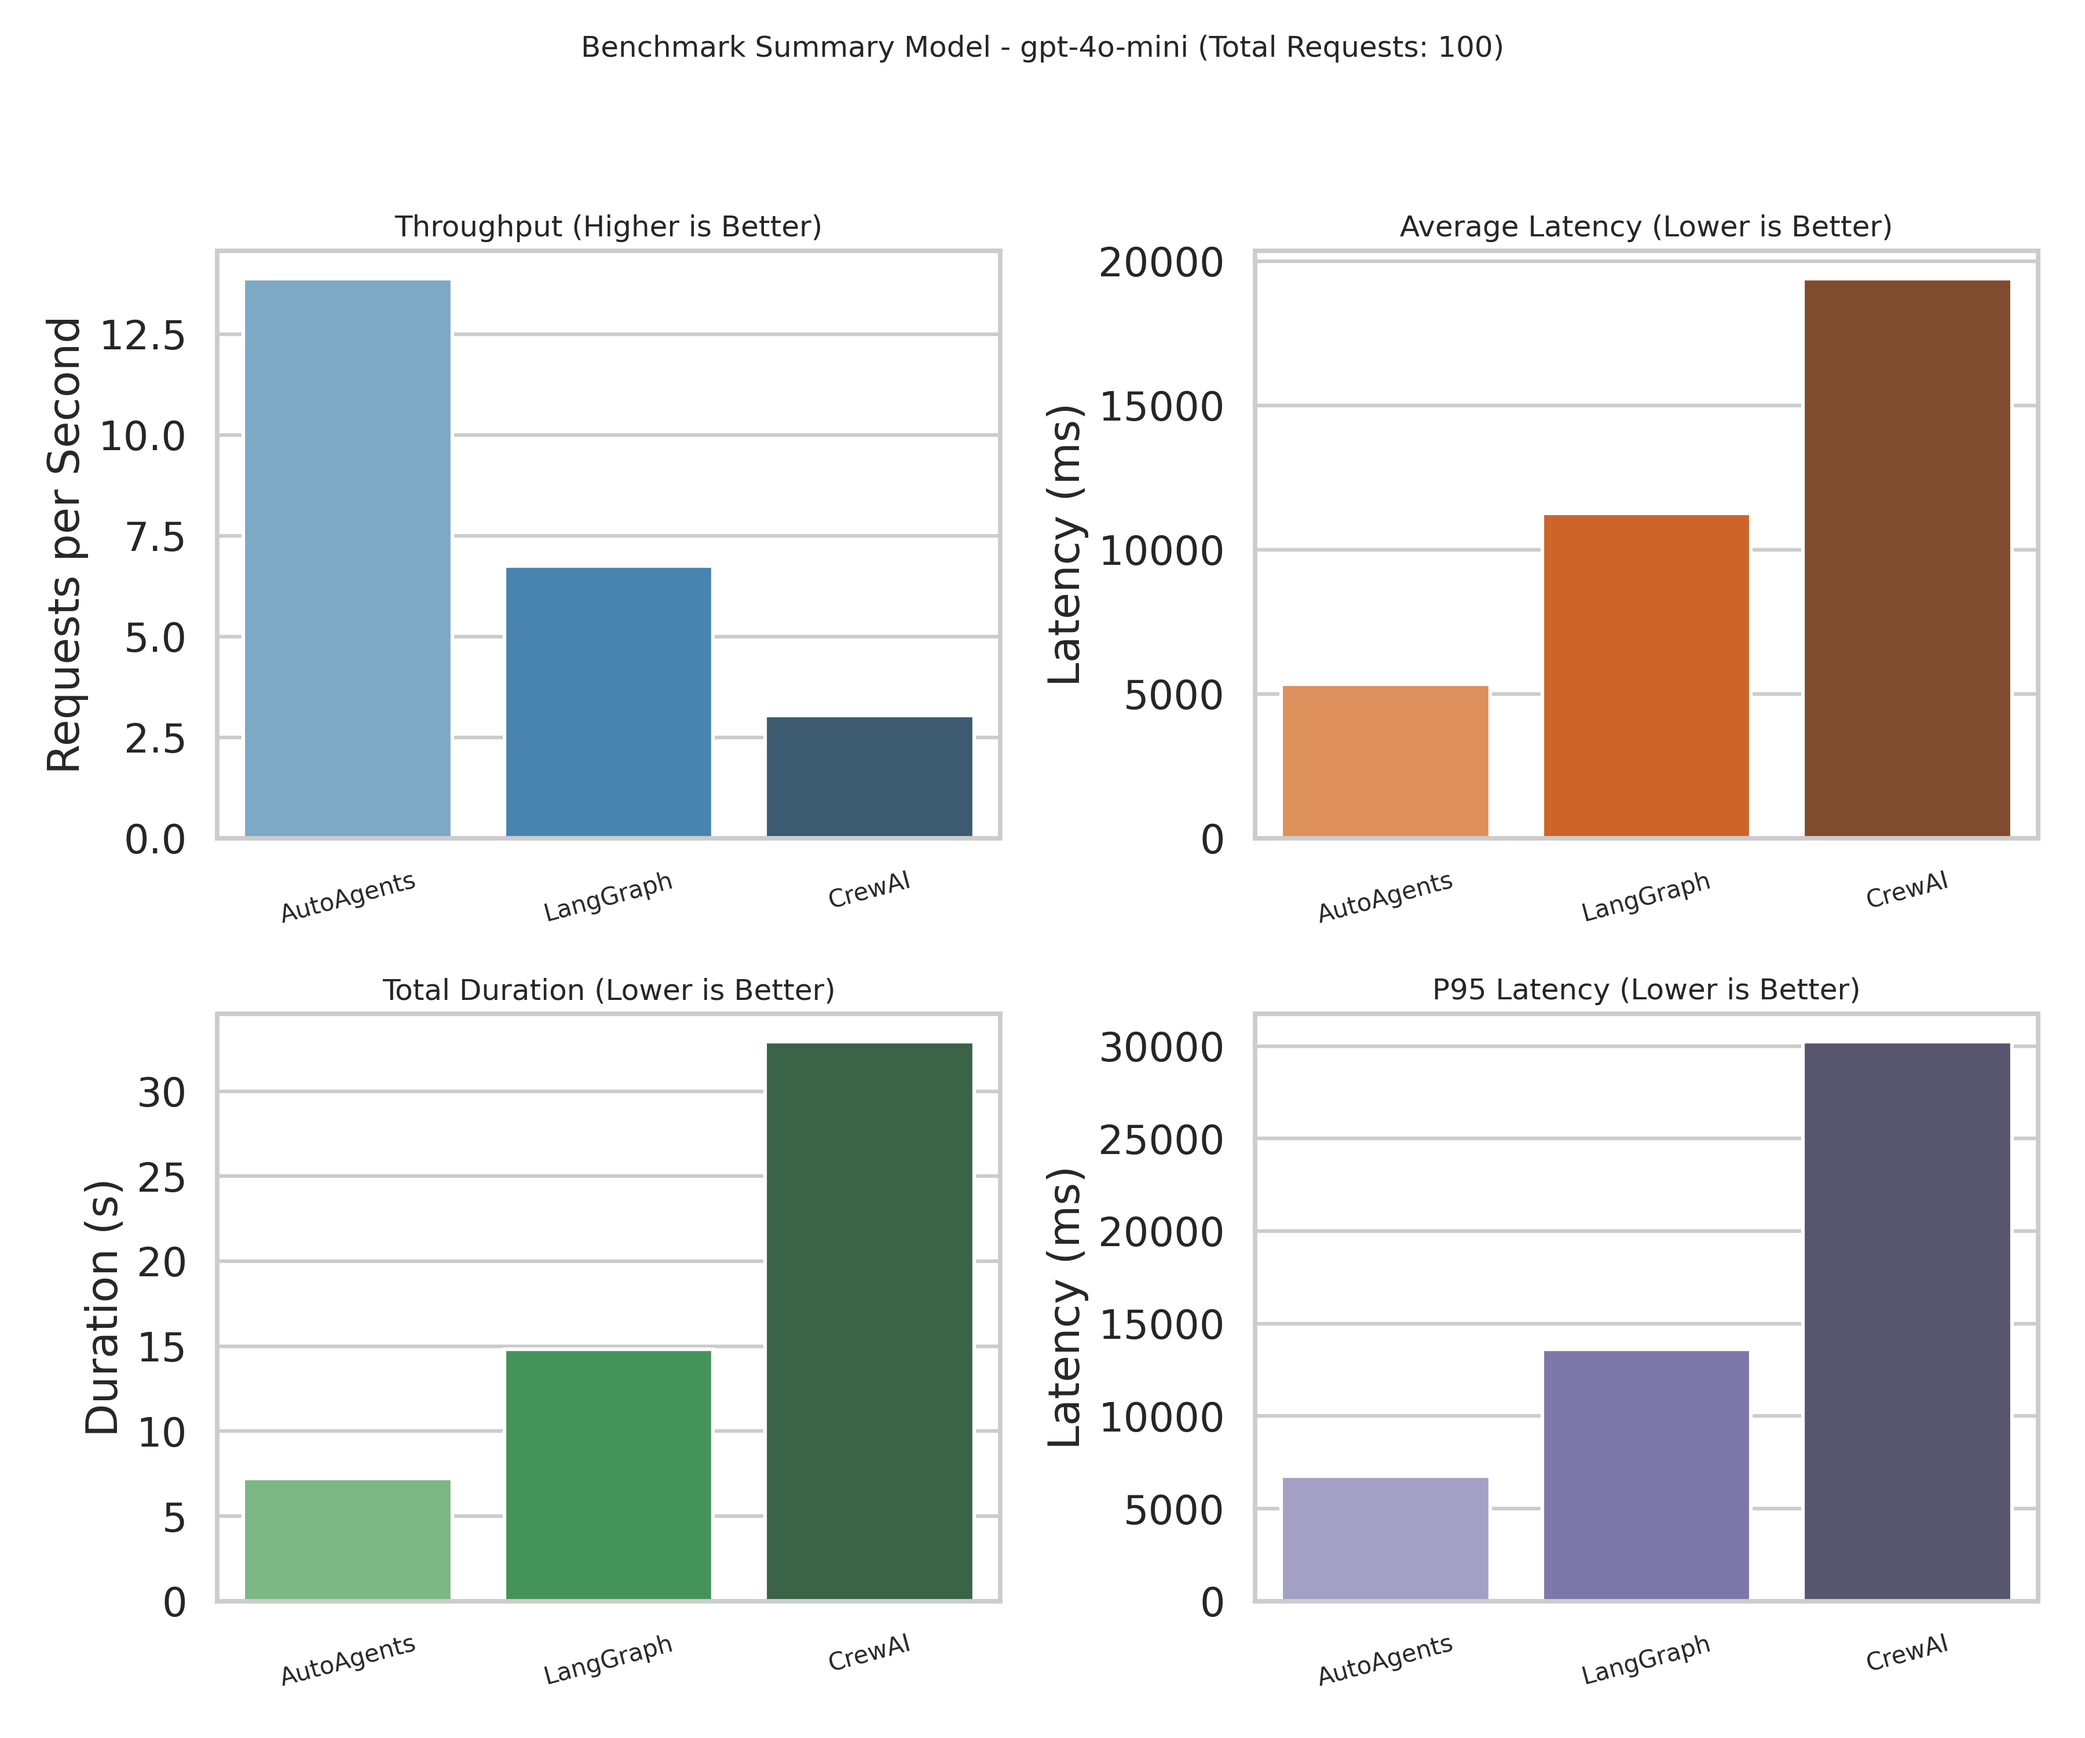
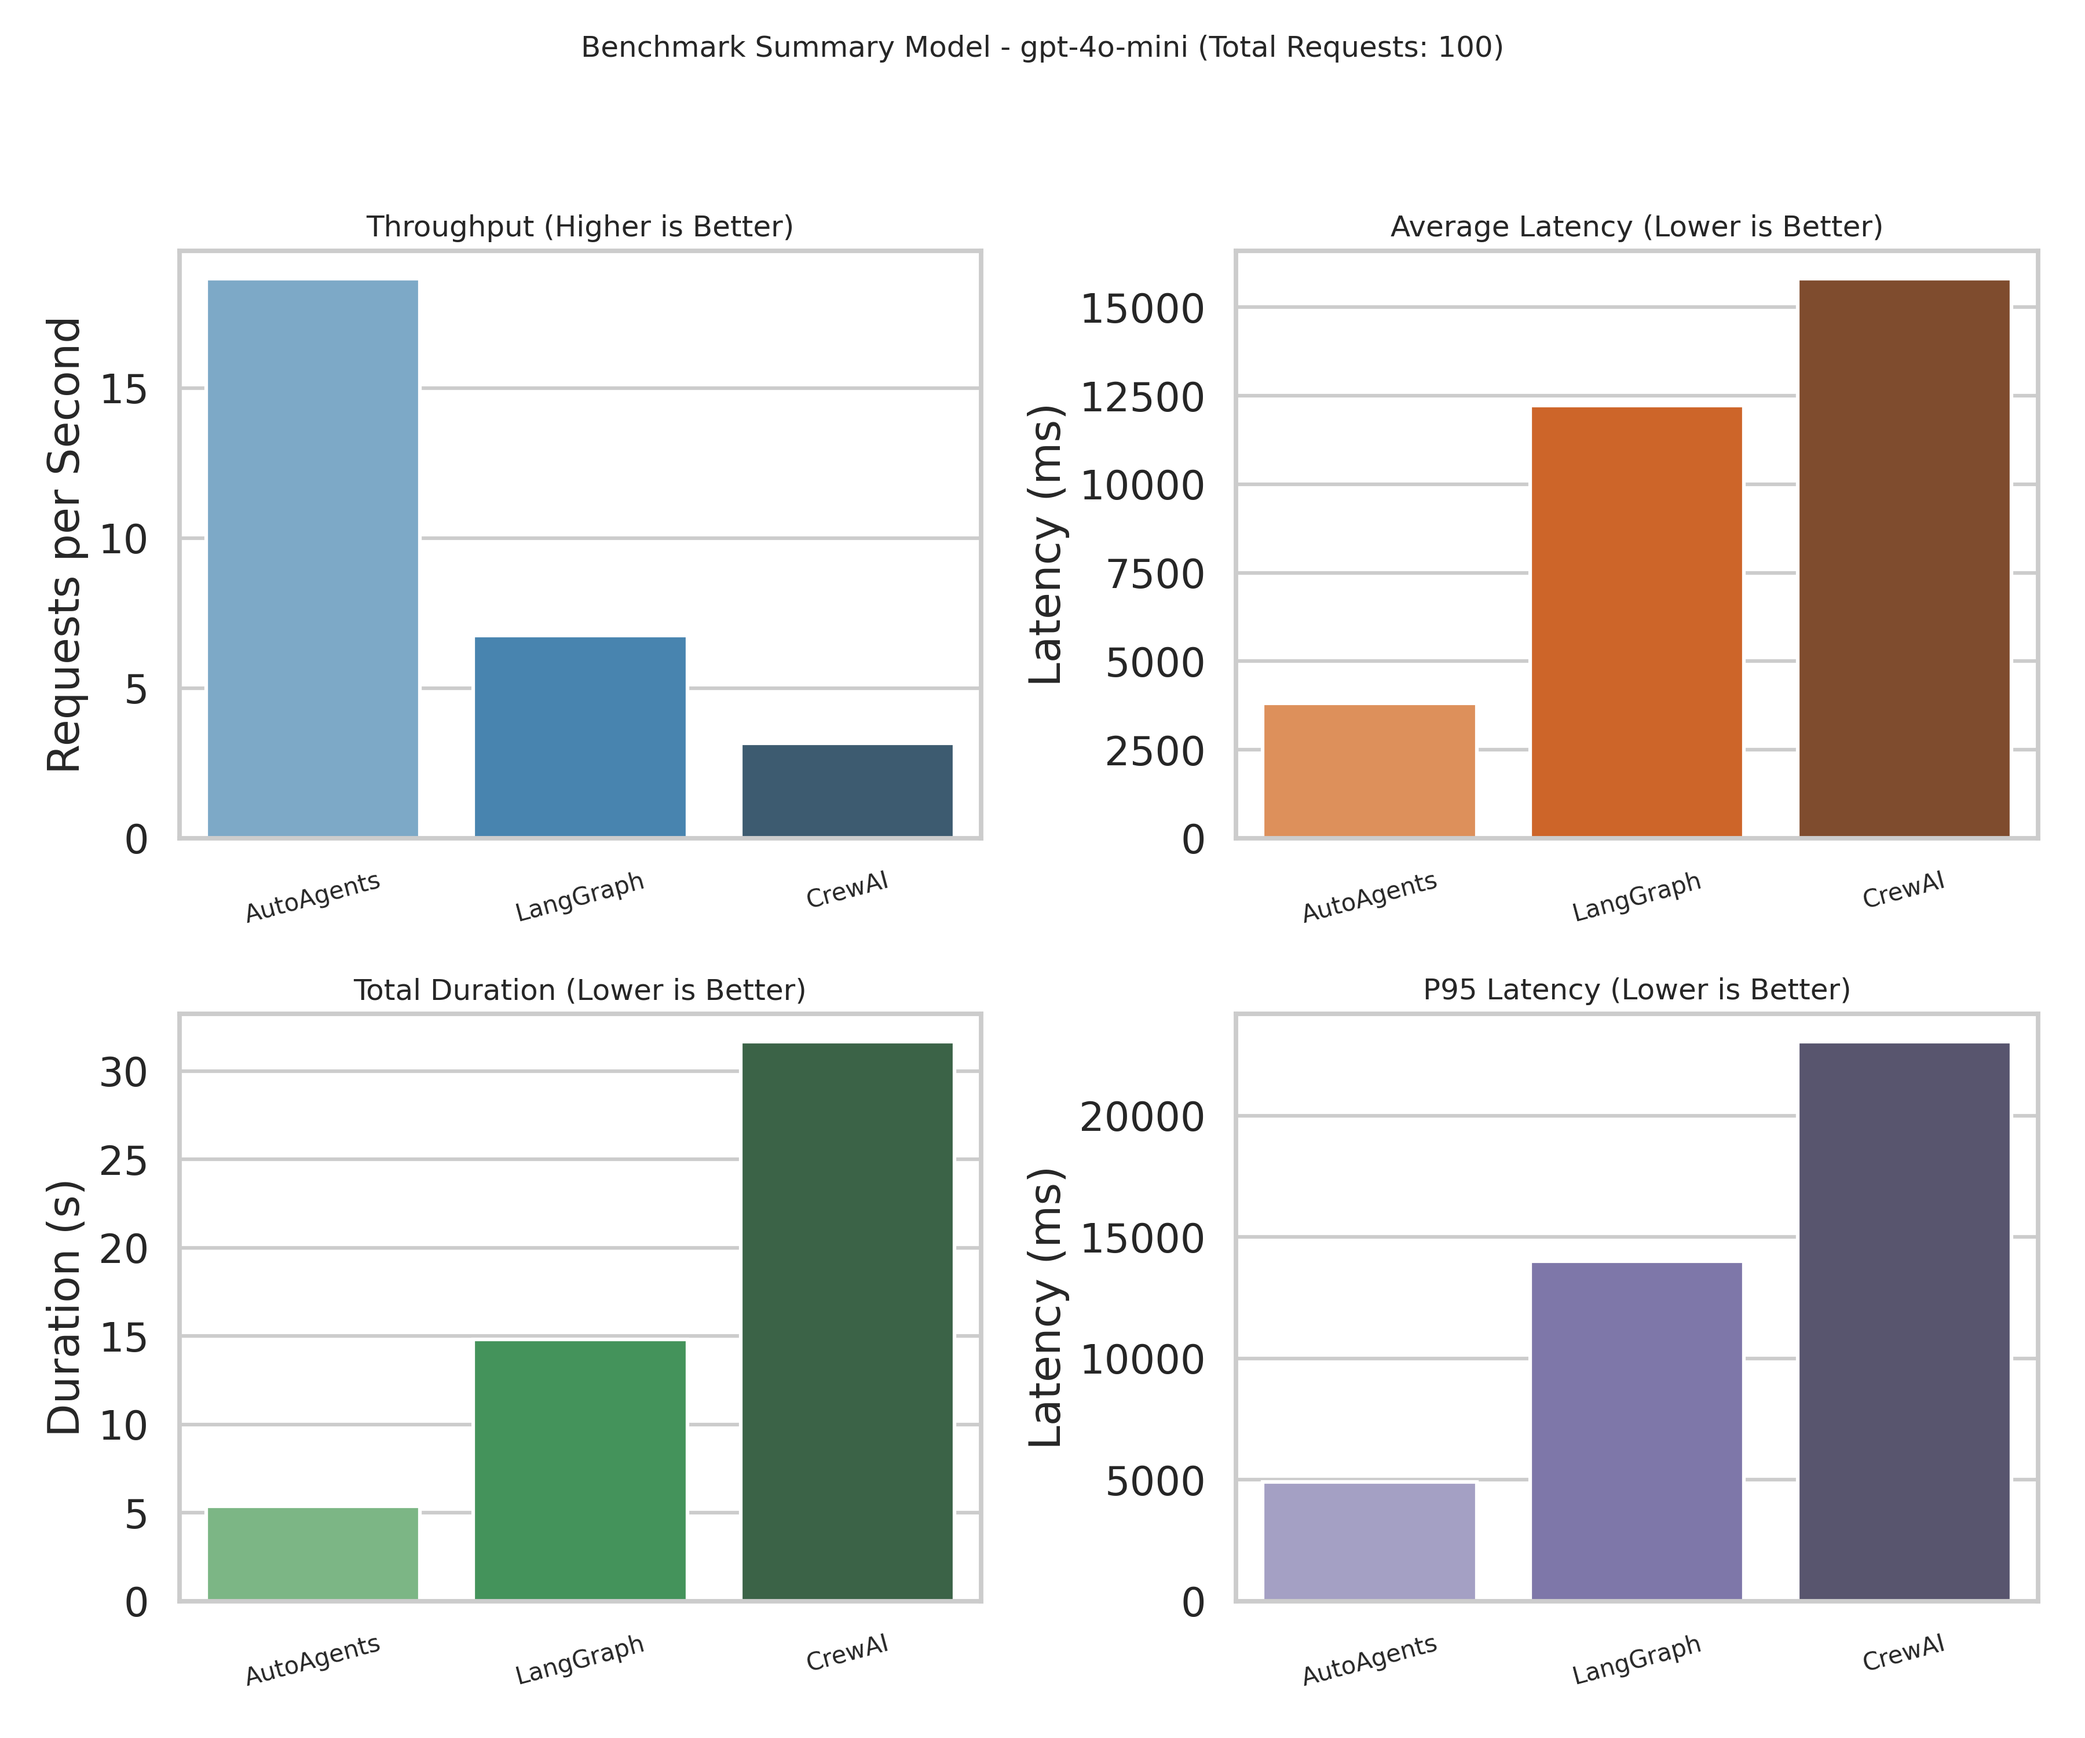
Refactor

diff --git a/_src/langgraph_bench.py b/_src/langgraph_bench.py
@@ -26,6 +26,7 @@ from .trip_tool import (
 
 
 FINAL_AGGREGATION_RESPONSE: float = 25.7
+SUCCESS_ABS_TOLERANCE: float = 0.01
 
 
 @dataclass
@@ -123,6 +124,10 @@ def percentile(data: List[float], perc: float) -> float:
     return data[rank]
 
 
+def is_successful_result(value: float) -> bool:
+    return math.isclose(value, FINAL_AGGREGATION_RESPONSE, abs_tol=SUCCESS_ABS_TOLERANCE)
+
+
 # 1. Define your structured output schema
 class TripDurationResult(BaseModel):
     average_trip_duration_minutes: float = Field(
@@ -165,8 +170,13 @@ async def run_langgraph_benchmark(config: BenchmarkConfig) -> BenchmarkResult:
         call_started = time.perf_counter()
         result = await agent.ainvoke({"messages": [("user", prompt)]})
 
-        response = result["structured_response"]
-        status = response.answer == FINAL_AGGREGATION_RESPONSE
+        try:
+            response = result["structured_response"]
+            value = float(response.answer)
+        except (KeyError, TypeError, ValueError):
+            status = False
+        else:
+            status = is_successful_result(value)
 
         call_duration = time.perf_counter() - call_started
         total_duration = time.perf_counter() - submitted
@@ -179,9 +189,8 @@ async def run_langgraph_benchmark(config: BenchmarkConfig) -> BenchmarkResult:
             )
         )
 
-    tasks = [asyncio.create_task(worker(i)) for i in range(config.total_requests)]
-
     overall_started = time.perf_counter()
+    tasks = [asyncio.create_task(worker(i)) for i in range(config.total_requests)]
     await asyncio.gather(*tasks)
     total_duration = time.perf_counter() - overall_started
 

diff --git a/_src/crewai_bench.py b/_src/crewai_bench.py
@@ -20,6 +20,7 @@ from .trip_tool import (
 )
 
 FINAL_AGGREGATION_RESPONSE: float = 25.7
+SUCCESS_ABS_TOLERANCE: float = 0.01
 
 
 @dataclass
@@ -121,6 +122,10 @@ def percentile(data: List[float], perc: float) -> float:
     return data[rank]
 
 
+def is_successful_result(value: float) -> bool:
+    return math.isclose(value, FINAL_AGGREGATION_RESPONSE, abs_tol=SUCCESS_ABS_TOLERANCE)
+
+
 def load_config() -> BenchmarkConfig:
     config_path = Path(os.getenv("BENCH_CONFIG", "benchmark.yaml"))
     try:
@@ -211,8 +216,11 @@ async def run_benchmark(config: BenchmarkConfig) -> BenchmarkResult:
             )
             crew = Crew(agents=[agent], tasks=[task])
             result = crew.kickoff()
-            # print(result["value"])
-            return result["value"] == FINAL_AGGREGATION_RESPONSE
+            try:
+                value = float(result["value"])
+            except (KeyError, TypeError, ValueError):
+                return False
+            return is_successful_result(value)
 
         status = await asyncio.to_thread(kickoff)
         call_duration = time.perf_counter() - call_started
@@ -226,9 +234,8 @@ async def run_benchmark(config: BenchmarkConfig) -> BenchmarkResult:
             )
         )
 
-    tasks = [asyncio.create_task(worker(i)) for i in range(config.total_requests)]
-
     overall_started = time.perf_counter()
+    tasks = [asyncio.create_task(worker(i)) for i in range(config.total_requests)]
     await asyncio.gather(*tasks)
     total_duration = time.perf_counter() - overall_started
 

diff --git a/src/main.rs b/src/main.rs
@@ -166,6 +166,7 @@ async fn bench_autoagents(config: &BenchmarkConfig) -> Result<BenchmarkResult> {
         .context("failed to build AutoAgents LLM client")?;
 
     let mut tasks = FuturesUnordered::new();
+    let start = Instant::now();
     for req_id in 0..config.total_requests {
         let sliding_window_memory = Box::new(SlidingWindowMemory::new(10));
         let agent_handle = AgentBuilder::<_, DirectAgent>::new(ReActAgent::new(SimpleAgent {}))
@@ -204,8 +205,6 @@ async fn bench_autoagents(config: &BenchmarkConfig) -> Result<BenchmarkResult> {
     }
 
     let mut breakdowns = Vec::with_capacity(config.total_requests);
-
-    let start = Instant::now();
 
     while let Some(next) = tasks.next().await {
         match next {

diff --git a/main.py b/main.py
@@ -1,11 +1,12 @@
 import asyncio
-from _src.langgraph_bench import run_langgraph
+
 from _src.crewai_bench import run_crewai
+from _src.langgraph_bench import run_langgraph
 
 
 async def main() -> None:
     await run_langgraph()
-    await run_crewai()
+    # await run_crewai()
 
 
 if __name__ == "__main__":

diff --git a/AGENTS.md b/AGENTS.md
@@ -1,0 +1,16 @@
+# Repository Guidelines
+
+## Project Structure & Module Organization
+The Rust benchmark lives in `src/` (`main.rs`, `trip.rs`) and drives AutoAgents workloads, while Python runners sit in `_src/` with `main.py` as the async entrypoint. Shared configuration is stored in `benchmark.yaml`, generated metrics accumulate in `benchmark_results*.json`, and comparison plots render into `plots/`. Treat large data inputs such as `trip_data.parquet` as read-only artifacts and keep sensitive config out of version control.
+
+## Build, Test, and Development Commands
+`cargo run --release` executes the AutoAgents benchmark defined by the current `benchmark.yaml`. `cargo check` offers a fast type pass before commits. `uv run main.py` launches the LangGraph workflow (uncomment CrewAI in `main.py` when needed). `uv run python plot_benchmarks.py` refreshes charts in `plots/`. Override defaults with `BENCH_CONFIG` or `BENCH_RESULTS_PATH` to point at alternate config/result files.
+
+## Coding Style & Naming Conventions
+Run `cargo fmt` to maintain standard Rust formatting and keep four-space indents with module-level doc comments when adding flows. Follow `cargo clippy -- -D warnings` so lints never regress performance-critical loops. Python modules stay snake_case under `_src`, prefer explicit coroutine names (`run_crewai`, `run_langgraph`), and rely on type hints plus descriptive docstrings. Load runtime secrets (e.g., `OPENAI_API_KEY`) from environment variables rather than code.
+
+## Testing Guidelines
+Unit coverage is currently sparse; add Rust tests beside each module and Python tests under `tests/` named `test_*.py` as you extend functionality. Run `cargo test` for Rust validation and `uv run python -m pytest` for Python suites. When a benchmark needs live APIs, mock external calls where practical and call out benchmark parameters in the PR description.
+
+## Commit & Pull Request Guidelines
+Commits follow short, imperative subjects (`Add check for success`) with optional bodies for dataset or API context. Pull requests should summarize benchmark deltas, reference issues, and attach relevant output or plots. Note any `OPENAI_API_KEY` prerequisites, confirm the commands above succeed locally, and include screenshots when plots change.

diff --git a/README.md b/README.md
@@ -6,6 +6,24 @@ All runners read their workload settings from `benchmark.yaml` (or a path provid
 
 All runners require an `OPENAI_API_KEY` that can call the configured models.
 
+### Disclaimer
+The benchmarks are written in Rust and Python. The Rust benchmarks use the `autoagents` framework, while the Python benchmarks use LangGraph and CrewAI agents. The benchmarks are designed to measure the performance of these agents in processing large amounts of data. If you feel like the benchmarks are not accurate or you have any suggestions, please feel free to open an issue or submit a pull request.
+
+---
+
+### Benchmark
+The below bencmark is run for 250 parallel requests to process an ReAct Style Agent to process and parquet file to calculate the average duration time.
+
+![Benchmark](./plots/benchmark_grid_250.png)
+
+---
+
+The below bencmark is run for 100 parallel requests to process an ReAct Style Agent to process and parquet file to calculate the average duration time. In this we use structured_output from the agent to evaluate if the generated value is correct or not.
+
+![Benchmark](./plots/benchmark_grid_100.png)
+
+---
+
 ### Rust benchmark (AutoAgents)
 
 ```shell
@@ -23,7 +41,11 @@ export OPENAI_API_KEY=sk-your-key
 uv run main.py
 ```
 
-
 ### Note
 
 Python Files are in `_src` folder and Rust in `src`
+
+### TODO
+- [x] Bench 300 for AutoAgents
+- [ ] Need to run 300 bench for langgraph and crewai
+- [ ] Add Memory in the benchmark
